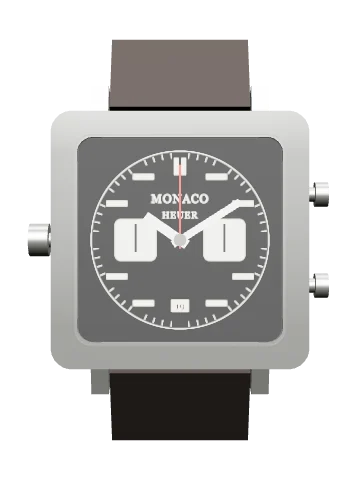
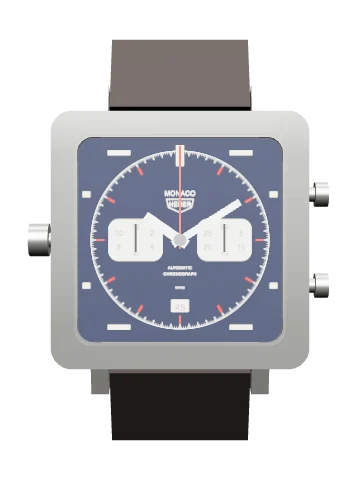
Heuer Monaco 1133B front checked against photographs: blue dial, shield and lettering, red five-minute dashes, level bars in the margins, wider registers with figures

Changed region(s): [[0.2139, 0.2812, 0.7944, 0.7188]]

diff --git a/draw.js b/draw.js
@@ -275,8 +275,12 @@ function markers(w, g, skip) {
       each(h => bat(h, 2.4, 0.7, 'p', 1.9)); break;
     }
     case 'monaco':
-      s += C(R0, 0, 0, 't') + ticks();
-      each(h => { if (h === 0) return dbl(2.6, 0.8, 'p', 1); const p = P(h * 30, R0 - 2.4); return RC(p[0] - 1.6, p[1] - 0.45, 3.2, 0.9); }); break;
+      /* the Monaco 1133B's dial, from Phillips' photograph of an early example: a circular track with fine divisions and a red dash inside it at each five minutes; and applied steel
+         bars laid level, outside the track, in the margins of the square. Long bars stand at 1, 5, 7 and 11, short ones at 2, 4, 8 and 10, and an upright bar with a red stripe at twelve. */
+      s += C(R0, 0, 0, 't'); for (let i = 0; i < 300; i++) s += i % 5 ? rad(i * 1.2, R0 - 0.35, R0, 'hair') : rad(i * 1.2, R0 - 0.7, R0, 't');
+      for (let h = 1; h < 12; h++) s += rad(h * 30, R0 - 2.0, R0 - 0.85, 't rd5');
+      for (const sx of [-1, 1]) for (const sy of [-1, 1]) s += RC(sx * 9.2 - 1.7, sy * 13.15 - 0.4, 3.4, 0.8, 'p ap') + RC(sx * 14.1 - 0.6, sy * 6.9 - 0.45, 1.2, 0.9, 'p ap');
+      s += RC(-0.65, -14.35, 1.3, 3.2, 'p ap') + L(0, -14.25, 0, -11.25, 't rd5'); break;
     case 'ventura':
       each(h => (p => C(0.55, p[0], p[1], 'p'))(P(h * 30, R0 - 0.9)));
       s += Pa('M-6.2,0H-3.6L-2.6,-2L-0.9,2.1L0.9,-2.1L2.6,2L3.6,0H6.2', 't'); break;
@@ -341,13 +345,14 @@ function subs(w, g, o = {}) {
     const [cx, cy] = P(pos * 30, off), tint = d.subTints ? d.subTints[pos] : null;
     const dr = (tint != null && tint >= 0.3 ? ' dkr' : '') + (d.subDark ? ' dk2' : ''); // on the plates, marks on a dark register are drawn pale
     const cls = d.subDark ? 'tn2' : d.subLight ? 'p' : (d.dark ? 'tn' : 'p'), sty = tint != null ? `style="fill:var(--sf${pos}, var(--ink));fill-opacity:var(--so, ${tint})"` : ''; // the Workbench's dial picture can give each register its true colour; elsewhere it is a tint of the ink
-    s += d.subSquare ? RC(cx - rs, cy - rs, 2 * rs, 2 * rs, cls, 0.9) : C(rs, cx, cy, 'p') + C(rs, cx, cy, cls, sty);
+    s += d.subSquare ? RC(cx - rs * 1.3, cy - rs, 2.6 * rs, 2 * rs, cls, 1.5) : C(rs, cx, cy, 'p') + C(rs, cx, cy, cls, sty);
     const n = role === 'min30' ? 30 : 12;
     if (!d.subSquare) for (let i = 0; i < n; i++) s += rad(i * 360 / n, rs - (i % (n / 6) ? 0.45 : 0.9), rs - 0.12, 't sk' + pos + dr, cx, cy);
     if (d.subRings) for (const k of [0.12, 0.2, 0.28, 0.36]) { // the fine circles turned into each register, a few of them, kept inside the figures; in the register at six they break for the word printed there
       if (d.subWord && pos === 6 && k > 0.15) { const r = rs * k, g0 = 55 * Math.PI / 180, x = r * Math.sin(g0), y = r * Math.cos(g0); s += Pa(`M${f(cx + x)},${f(cy + y)}A${f(r)},${f(r)} 0 1 0 ${f(cx - x)},${f(cy + y)}`, 'hair'); }
       else s += C(rs * k, cx, cy, 'hair sk' + pos + dr); }
     if (d.subWord && pos === 6) s += T(d.subWord, cx, cy + rs * 0.3, rs * 0.14, 'tx dl', 'style="font-family:Helvetica,Arial,sans-serif"');
+    if (d.subNums && d.subSquare) (role === 'hr12' ? [12, 2, 4, 6, 8, 10] : [30, 5, 10, 15, 20, 25]).forEach((v, i) => { const a = i * Math.PI / 3, z = rs * 0.36; s += T(v, cx + rs * 0.92 * Math.sin(a), cy - rs * 0.66 * Math.cos(a) + z * 0.36, z, 'tx sn', 'style="fill:#161616;font-family:Helvetica,Arial,sans-serif"'); }); // six figures round each square register, as on the Monaco
     if (d.subNums === 'all' && !d.subSquare) { const n2 = role === 'hr12' ? 12 : 6, st = role === 'hr12' ? 1 : role === 'min30' ? 5 : 10; for (let i = 0; i < n2; i++) { const p = P(i * 360 / n2, rs * 0.6, cx, cy), z = rs * 0.21; s += T(i ? i * st : n2 * st, p[0], p[1] + z * 0.36, z, 'tx sn', 'style="font-family:Helvetica,Arial,sans-serif"'); } } // a figure at every step, as on the Navitimer
     else if (d.subNums && !d.subSquare) (role === 'hr12' ? [[0, 12], [90, 3], [180, 6], [270, 9]] : role === 'min30' ? [[0, 30], [120, 10], [240, 20]] : [[0, 60], [120, 20], [240, 40]]).forEach(q => { const p = P(q[0], rs * 0.56, cx, cy), z = rs * 0.3; s += T(q[1], p[0], p[1] + z * 0.36, z, 'tx sn sn' + pos + dr, 'style="font-family:Helvetica,Arial,sans-serif"'); }); // the figures printed in each register
     if (!o.noHands) s += `<g transform="translate(${cx},${cy})"><g ${role === 'sec' ? `data-hand="s" data-bps="${b}"` : `data-chr="${role === 'min30' ? 'm' : 'h'}"`}>${L(0, 0.8, 0, -rs * 0.82, 'hd')}</g>${C(0.32, 0, 0, 'k')}</g>`;
@@ -434,7 +439,7 @@ const handsAt = (w, g) => w.dial.handsAt ? `<g transform="translate(${w.dial.han
 
 function dial(w, g, o) {
   if (w.dial.custom === 'gyro3') return gyro3(w, g, o);
-  const d = w.dial; let s = Pa(g.dial, d.dark ? 'tn' : 'p');
+  const d = w.dial; let s = Pa(g.dial, d.dark ? 'tn db' : 'p');
   if (d.tapisserie) { const id = 'u' + (++uid); s += `<defs><pattern id="${id}" width="1.15" height="1.15" patternUnits="userSpaceOnUse"><path class="hair" d="M0,0H1.15M0,0V1.15"/></pattern></defs><path d="${g.dial}" fill="url(#${id})" stroke="none"/>`; }
   if (d.flange) {
     const r = g.inR; s += C(r, 0, 0, 'l');
@@ -775,10 +780,11 @@ function face(w, real) {
   const gilt = real && w.dial.gilt ? '.dl{fill:#c9a45c}.gt .t{stroke:#c9a45c}' : ''; // printing in gilt, as on the early glossy dials
   const ap = real && !w.dial.dark ? '.t.dk2,.hair.dk2{stroke:#ecece8}text.dk2{fill:#ecece8}.ap{fill:#a7a8a4}.dk{fill:#131313;stroke:#2b2b2b}.dkt{fill:#f1efe7}.dks{stroke:#f1efe7}' : ''; // applied steel bars on a pale dial
   const wg = real && w.dial.goldNums ? '.nm,.wg{fill:#c8ad74}.wg{stroke:#4a3c16;stroke-width:.05}' : ''; // applied gilt figures and emblem
+  const blue = real ? (w.dial.blue ? `.db{fill:${w.dial.blue}}` : '') + '.rd5{stroke:#c51f10;stroke-width:.32}' : ''; // a coloured dial, and red marks
   const sf = real && w.dial.subFills ? 'svg{--so:1;' + Object.entries(w.dial.subFills).map(q => `--sf${q[0]}:${q[1][0]}`).join(';') + '}' + Object.entries(w.dial.subFills).filter(q => q[1][1]).map(q => `.sk${q[0]}{stroke:#ecece8}.sn${q[0]}{fill:#ecece8}`).join('') : ''; // each register's colour, and pale marks on the dark ones
   const pinkHands = real && w.dial.goldHands ? '.hc{fill:#cf9a78;stroke:#5a3b2a}.mw{fill:#1b2a55;stroke:#5a3b2a;stroke-width:.08}.mn{fill:#e3c060;stroke:none}' : '';
   const g3 = real && w.dial.custom === 'gyro3' ? '.g3-base{fill:#050506;stroke:none}.g3-met{fill:#5d5f63;stroke:#2f3033;stroke-width:.08}.g3-streak{stroke:#9a9c9f;stroke-width:.07}.g3-rim{fill:#c98d6b;stroke:#5a3b2a;stroke-width:.06}.g3-hole{fill:#09090a}.g3-blue{fill:#0a1340;stroke:#c98d6b;stroke-width:.06}.g3-white{fill:#f2f0e9;stroke:#8a8a86;stroke-width:.05}.g3-ink{stroke:#1a1a1a}.g3-inkf{fill:#1a1a1a;font-family:Helvetica,Arial,sans-serif}.g3-gold{fill:#dba886;stroke:#5a3b2a;stroke-width:.04}.g3-star{fill:#d5dcff}.g3-day{fill:#e3e1da;stroke:none}.g3-steel{fill:#b9bbbd;stroke:#4a4c4f;stroke-width:.07}.g3-screw{fill:#2a55a8;stroke:#0d1f45;stroke-width:.06}.g3-teeth{stroke:#c9cbcd;stroke-width:.09}.g3-sun{fill:#dba886;stroke:none}.g3-ray{stroke:#b98a64;stroke-width:.06}.g3-wt{stroke:#eef0ff}.g3-txt{fill:#e6e6e6}' : '';
-  const s = `<style>${real ? (w.dial.dark ? REAL : REAL_LIGHT) : TECH}${mixed}${gold}${gilt}${ap}${wg}${pinkHands}${g3}${sf}</style><circle r="${R}" fill="${real ? '#b5b5af' : '#EDE6D8'}"/><g class="bzd">${bezel(w, g)}</g>` + dial(w, g, { noHands: true });
+  const s = `<style>${real ? (w.dial.dark ? REAL : REAL_LIGHT) : TECH}${mixed}${gold}${gilt}${ap}${wg}${blue}${pinkHands}${g3}${sf}</style><circle r="${R}" fill="${real ? '#b5b5af' : '#EDE6D8'}"/><g class="bzd">${bezel(w, g)}</g>` + dial(w, g, { noHands: true });
   // The dial is drawn once as a picture, so the date window is filled here with today's date; on the plates it is filled live.
   const today = new Date(), DAYS3 = ['SUN', 'MON', 'TUE', 'WED', 'THU', 'FRI', 'SAT'];
   const dated = s.replace(new RegExp('(data-date=""[^>]*>)', 'g'), `$1${today.getDate()}`).replace(new RegExp('(data-daydate=""[^>]*>)', 'g'), `$1${DAYS3[today.getDay()]} ${today.getDate()}`);

diff --git a/workbench/watches/monaco-1133b.js b/workbench/watches/monaco-1133b.js
@@ -14,7 +14,7 @@ export default {
   asset: {
     type: 'procedural',
     builder: 'round-chronograph',
-    note: 'Case and pushers are simplified. The blue dial is rendered dark. No dimensioned maker’s drawing was available for the movement: wheel positions are measured from published overhead photographs and identified from the service manual’s exploded views; the escape wheel and pallets, and all sizes, heights, tooth counts and outlines, are estimated. Not a factory model or scan.',
+    note: 'Case and pushers are simplified. No dimensioned maker’s drawing was available for the movement: wheel positions are measured from published overhead photographs and identified from the service manual’s exploded views; the escape wheel and pallets, and all sizes, heights, tooth counts and outlines, are estimated. Not a factory model or scan.',
     params: { thickness: 14.5, lugToLug: 46, lugWidth: 22, movementDiameter: 31, beatsPerHour: 19800, calibre: '11', caseShape: 'square', crownLeft: true, registers: 2, cam: true, rotor: 'micro', dustCover: false, bezelInsert: false, chronoHand: 'red', subHandKind: 'ink', plate: 'steel', crownR: 2.5 }
   },
   images: [],
@@ -62,12 +62,12 @@ export default {
       significance: '', related: ['crystal', 'case'] },
     { id: 'dial', name: 'Dial and registers', group: 'Exterior', status: 'D', anchor: [-9.5, -9.5, 2.4], face: 1,
       beginner: 'The blue dial with two white squares. The right one counts minutes and the left one counts hours while the stopwatch runs. The date is at the bottom.',
-      horologist: 'Blue dial with square registers: 30 minutes at 3 and 12 hours at 9, date at 6. There is no running seconds register, so with the chronograph stopped nothing shows that the watch is going. The model renders the dial dark, not blue.',
+      horologist: 'Blue dial with square registers: 30 minutes at 3 and 12 hours at 9, date at 6. There is no running seconds register, so with the chronograph stopped nothing shows that the watch is going. The dial is shown as on an early example photographed by Phillips: MONACO above Heuer’s shield, AUTOMATIC CHRONOGRAPH below the centre and SWISS above the date; a circular track with a red dash at each five minutes; and applied steel bars laid level in the margins of the square, long at 1, 5, 7 and 11, short at 2, 4, 8 and 10, with an upright bar striped red at twelve. The very first dials of 1969 read CHRONOMATIC above the shield and MONACO below. The shield is a plain outline, the typefaces are approximations, and the blue is judged from photographs.',
       fn: 'Displays the time, the date and elapsed time.', material: 'Metal dial',
       significance: 'Round track, square registers, square case: the dial is a study in fitting one shape inside another.', related: ['hands', 'minute-recorder'] },
     { id: 'hands', name: 'Hands', group: 'Exterior', status: 'D', anchor: [3, 8, 3.1], face: 1,
       beginner: 'Hour and minute hands, a red centre hand that is the stopwatch, and a small hand in each register.',
-      horologist: 'Baton hands with a red central chronograph seconds hand, at rest at twelve, and a hand in each register. The model’s hands are plain and do not show the red details of the originals.',
+      horologist: 'Baton hands with a red central chronograph seconds hand, at rest at twelve, and a hand in each register. On the first watches the hour and minute hands are polished steel with luminous inserts and squared ends, with no red; red-tipped hands came with the later dials. The model’s hands are plain and their inserts are not modelled.',
       fn: 'Indicate the time and the elapsed time.', material: 'Not specified',
       significance: '', related: ['dial', 'chrono-runner'] },
     { id: 'case', name: 'Case and lugs', group: 'Exterior', status: 'D', anchor: [-16, 19, 0], face: 0,

diff --git a/data.js b/data.js
@@ -93,7 +93,7 @@ window.WATCHES = [
 {
   id:'monaco', brand:'Heuer', model:'Monaco', ref:'1133B', year:'1969', span:'1969 – mid-1970s', kind:'Chronograph',
   c:{shape:'square', d:39, t:[14.5,'n'], lug:[22,'a']},
-  dial:{dark:true, markers:'monaco', date:6, subs:[[3,'min30'],[9,'hr12']], subSquare:true, subLight:true, text:['MONACO','HEUER']},
+  dial:{dark:true, blue:'#071737', markers:'monaco', date:6, subs:[[3,'min30'],[9,'hr12']], subSquare:true, subLight:true, subNums:true, text:['MONACO','HEUER'], set:{lines:[['MONACO',-0.5,0.075,1],['AUTOMATIC',0.33,0.045,1],['CHRONOGRAPH',0.4,0.045,1],['SWISS',0.55,0.032,1]], shield:-0.46}},
   hands:'baton', sec:'none', chrono:true, crown:{pos:9}, pushers:'pump', strap:'leather',
   mv:{cal:'11 “Chronomatic”', type:'microchrono', vph:19800, wind:'Automatic, micro-rotor', note:'The “Chronomatic”: a modular automatic chronograph developed by Heuer, Breitling, Büren and Dubois-Dépraz.'},
   back:{type:'plainsq', note:'Detail not verified; shown plain.'},
